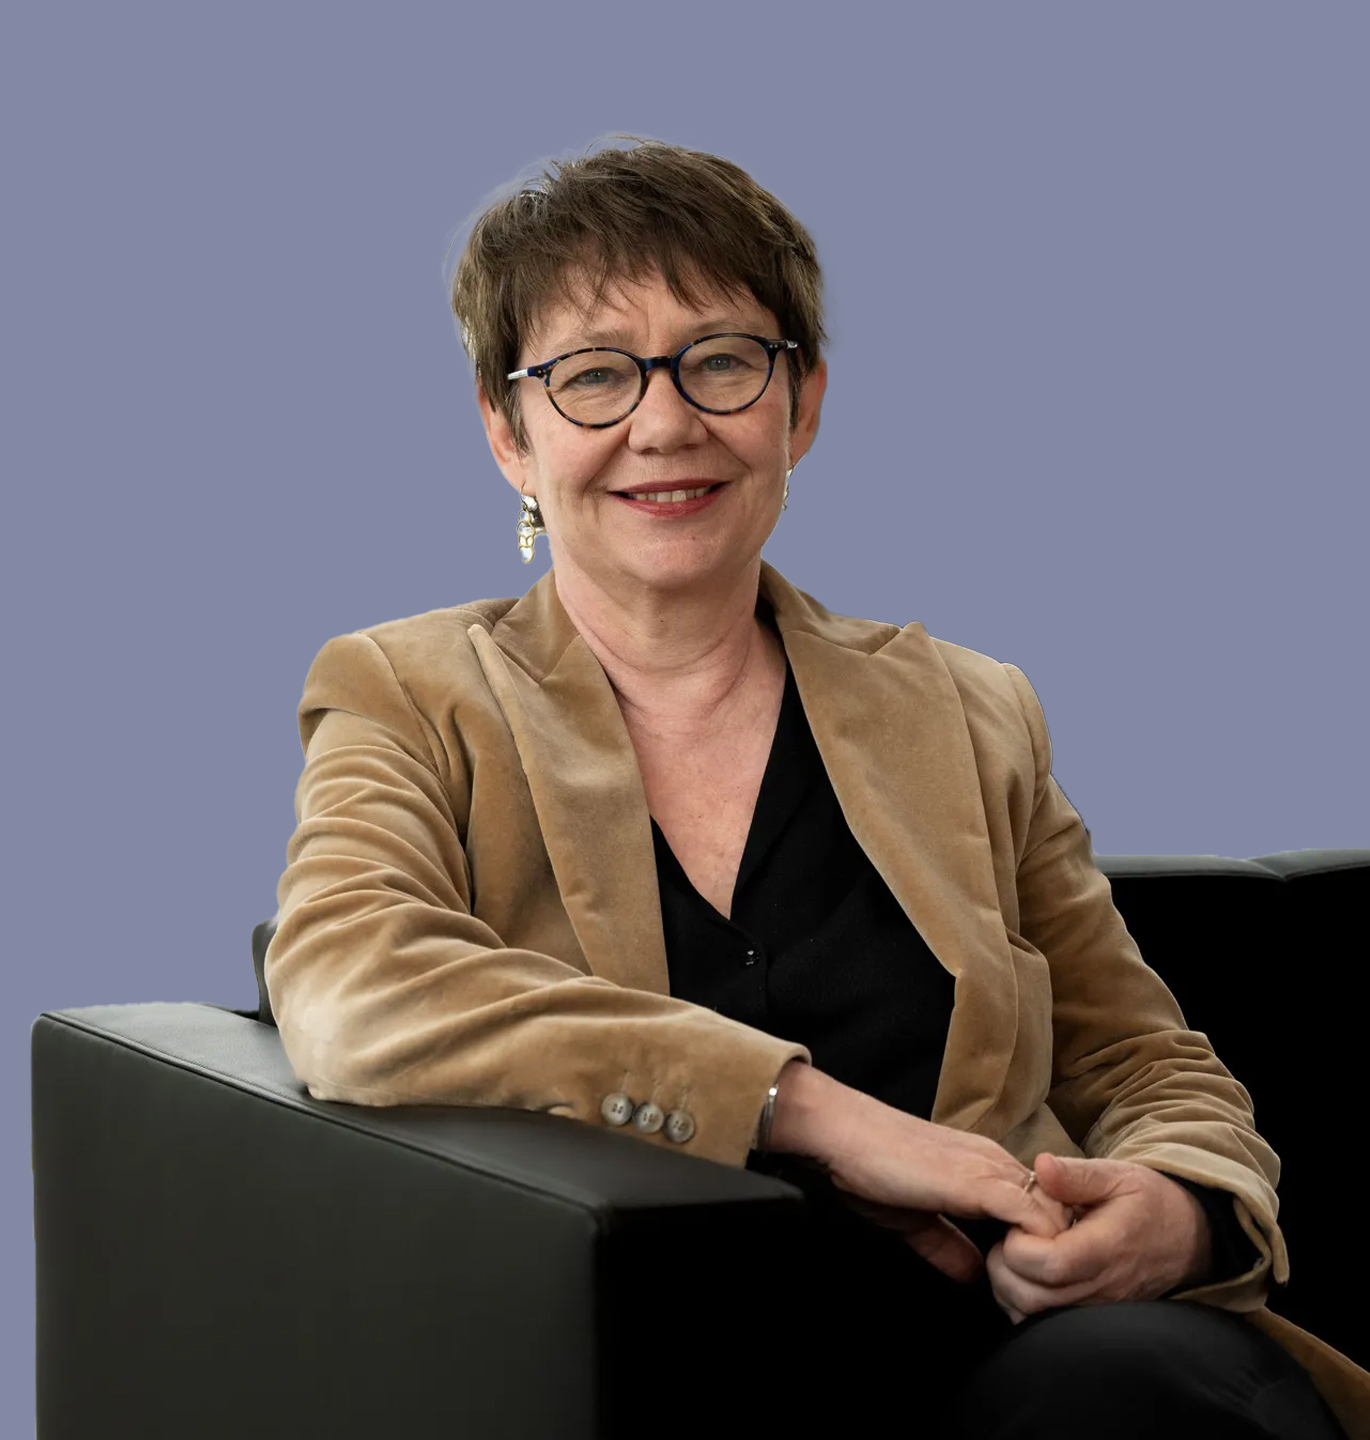
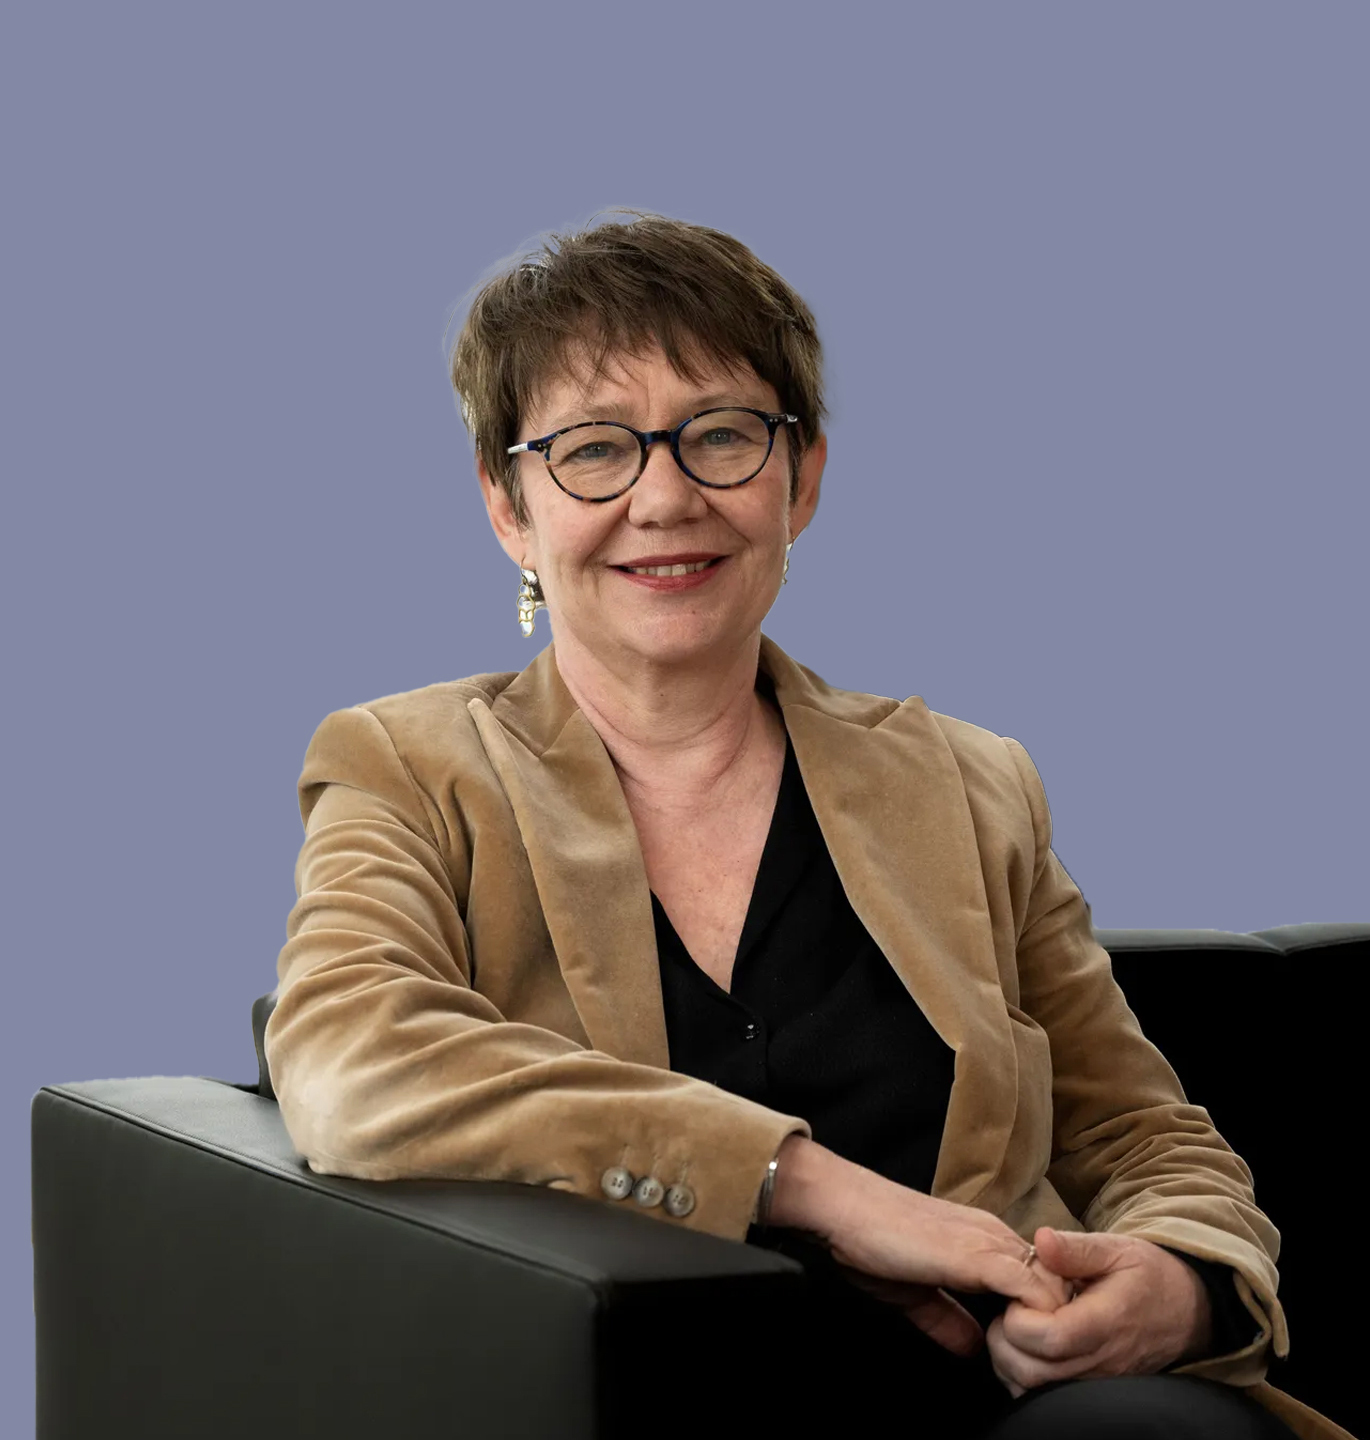
fix: bugs

diff --git a/src/views/website/contact/Index.vue b/src/views/website/contact/Index.vue
@@ -116,7 +116,7 @@
 </template>
 
 <script setup lang="ts">
-import { reactive, ref, h } from 'vue'
+import { reactive, ref, h, nextTick } from 'vue'
 import { ElForm, ElFormItem, ElInput, ElButton, ElMessage } from 'element-plus'
 import type { FormInstance, FormRules } from 'element-plus'
 import { useI18n } from 'vue-i18n'
@@ -154,10 +154,72 @@ const onPhoneInput = (val: string) => {
     form.phone = formatUzPhone(val)
 }
 
-// Block non-numeric typing (allow control/navigation keys)
+// --- Caret helpers (count only digits, ignore mask characters) ---
+const digitsBeforePos = (str: string, pos: number): number => {
+    let c = 0
+    for (let i = 0; i < pos; i++) if (/\d/.test(str[i])) c++
+    return c
+}
+// National digits = all digits minus the fixed "998" prefix (first 3)
+const nationalBefore = (str: string, pos: number): number => Math.max(0, digitsBeforePos(str, pos) - 3)
+// Caret position right after the nth national digit in a formatted value
+const caretAfterNational = (str: string, n: number): number => {
+    const target = 3 + n
+    let count = 0
+    for (let i = 0; i < str.length; i++) {
+        if (/\d/.test(str[i])) {
+            count++
+            if (count === target) return i + 1
+        }
+    }
+    return str.length
+}
+
+// Handle deletion & typing on the digit level so mask characters (spaces, parens)
+// never trap the caret. Backspace/Delete always removes the nearest *national* digit.
 const onPhoneKeydown = (evt: Event | KeyboardEvent) => {
     const e = evt as KeyboardEvent
     if (e.ctrlKey || e.metaKey || e.altKey) return
+
+    const input = e.target as HTMLInputElement | null
+    if (input && (e.key === 'Backspace' || e.key === 'Delete')) {
+        const val = form.phone
+        const start = input.selectionStart ?? val.length
+        const end = input.selectionEnd ?? val.length
+        e.preventDefault()
+
+        let newRaw: string
+        let keepNational: number
+
+        if (start !== end) {
+            // Remove the selected range
+            newRaw = val.slice(0, start) + val.slice(end)
+            keepNational = nationalBefore(val, start)
+        } else if (e.key === 'Backspace') {
+            // Nearest national digit before the caret (skip the "998" prefix)
+            let i = start - 1
+            while (i >= 0 && (!/\d/.test(val[i]) || digitsBeforePos(val, i) < 3)) i--
+            if (i < 0) return // nothing deletable — keep +998 intact
+            newRaw = val.slice(0, i) + val.slice(start)
+            keepNational = nationalBefore(val, i)
+        } else {
+            // Delete: nearest national digit at/after the caret
+            let i = start
+            while (i < val.length && (!/\d/.test(val[i]) || digitsBeforePos(val, i) < 3)) i++
+            if (i >= val.length) return
+            newRaw = val.slice(0, i) + val.slice(i + 1)
+            keepNational = nationalBefore(val, i)
+        }
+
+        form.phone = formatUzPhone(newRaw)
+        nextTick(() => {
+            const pos = caretAfterNational(form.phone, keepNational)
+            input.setSelectionRange(pos, pos)
+        })
+        return
+    }
+
+    // Block any non-numeric printable key
     if (e.key.length === 1 && !/[0-9]/.test(e.key)) e.preventDefault()
 }
 

diff --git a/src/views/website/events/plenary-sessions/sessionsData.ts b/src/views/website/events/plenary-sessions/sessionsData.ts
@@ -74,7 +74,6 @@ export const sessions: PlenarySession[] = [
         ],
         links: [
             { label: 'president.uz', href: 'https://president.uz' },
-            { label: 'doc', href: '#', outlined: true },
         ],
     },
     {
@@ -131,7 +130,6 @@ export const sessions: PlenarySession[] = [
         },
         links: [
             { label: 'lex.uz', href: 'https://lex.uz' },
-            { label: 'doc', href: '#', outlined: true },
         ],
     },
     {
@@ -182,7 +180,6 @@ export const sessions: PlenarySession[] = [
         links: [
             { label: 'president.uz', href: 'https://president.uz' },
             { label: 'lex.uz', href: 'https://lex.uz' },
-            { label: 'doc', href: '#', outlined: true },
         ],
     },
     {
@@ -233,7 +230,6 @@ export const sessions: PlenarySession[] = [
         links: [
             { label: 'president.uz', href: 'https://president.uz' },
             { label: 'lex.uz', href: 'https://lex.uz' },
-            { label: 'doc', href: '#', outlined: true },
         ],
     },
 ]

diff --git a/src/views/website/events/weekly-results/Detail.vue b/src/views/website/events/weekly-results/Detail.vue
@@ -30,11 +30,11 @@
                     </div>
 
                     <!-- Cover image -->
-                    <div v-if="item.imageId || item.previewImageId" class="mt-8 rounded-2xl overflow-hidden aspect-[16/8] bg-[#eef0f4]">
+                    <div v-if="item.imageId || item.previewImageId" class="mt-8 rounded-2xl overflow-hidden bg-[#eef0f4]">
                         <img
                             :src="getMediaUrl(item.imageId || item.previewImageId)"
                             :alt="resolveTranslation(item.title)"
-                            class="w-full h-full object-cover"
+                            class="w-full h-auto object-contain"
                         />
                     </div>
 
